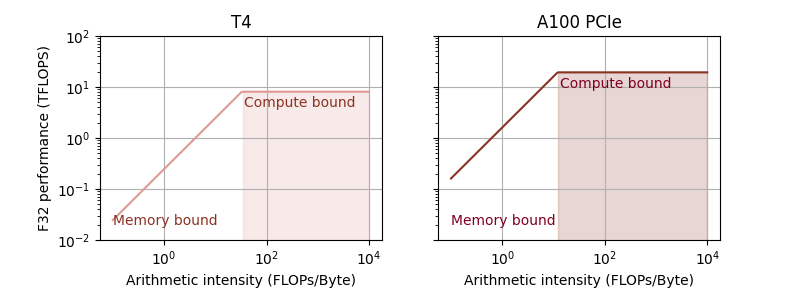
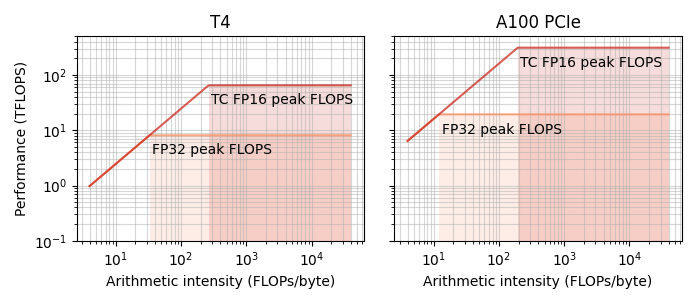
April 24 updates

diff --git a/CHEP_2023/fc/fig1_roofline_demo.py b/CHEP_2023/fc/fig1_roofline_demo.py
@@ -1,62 +1,71 @@
 import math
 import numpy as np
+import matplotlib
 import matplotlib.pyplot as plt
+from matplotlib import cycler
 
-COLOR_1 = "#DE9A95"
-COLOR_2 = "#8A3324"
-COLOR_3 = "#800020"
-COLORS = [COLOR_1, COLOR_2, COLOR_3]
-
-# slope in FLOPs/Byte, peak in TFLOPS
-T4_f32 = {'slope': 245.2, 'peak': 8.1}
-A100_f32 = {'slope': 1607.3, 'peak': 19.37}
+# Data
+# bw in FLOPs/byte, peak in TFLOPS
+T4 = {'bw': 245.2, 'fp32': 8.1, 'tc': 65}
+A100 = {'bw': 1607.3, 'fp32': 19.37, 'tc': 312}
 
 NX = 200  # number of data points
-X_MIN = -1.0
-X_MAX = 4
-Y_MIN = 0.01
-Y_MAX = 100
+X_MIN = 0.6
+X_MAX = 4.6
+Y_MIN = 0.1
+Y_MAX = 500
 
 
-def get_y_data(data_dict, x):
+def get_y_data(data_dict, x, dict_key):
     processed_y = []
     for i in range(NX):
-        tflops = x[i] * data_dict['slope'] / 1000
-        processed_y.append(data_dict['peak'] if tflops > data_dict['peak'] else tflops)
+        tflops = x[i] * data_dict['bw'] / 1000
+        processed_y.append(data_dict[dict_key] if tflops > data_dict[dict_key] else tflops)
     return processed_y
 
 
+def get_ridge_point(dict, dict_key):
+    return dict[dict_key] * 1000 / dict['bw']
+
+
+def add_one_roof_line(x, ax, x_th, y, y_peak, entry):
+    """Plot a single roofline"""
+    ax.plot(x, y, alpha=0.7)
+    ax.fill_between(x, y, where=(x >= x_th), step='mid', alpha=0.15)
+    # Add text
+    flag_text = ("FP32" if entry == "fp32" else "TC FP16") + ' peak FLOPS'
+    ax.text(x_th * 1.1, 0.45 * y_peak, flag_text)
+
+
+def add_one_subplot(data_dict, ax, x, title_str):
+    """Plot the rooflines of a single device"""
+    dict_keys = ["fp32", "tc"]
+    for dict_key in dict_keys:
+        add_one_roof_line(x, ax, get_ridge_point(data_dict, dict_key),
+                          get_y_data(data_dict, x, dict_key), data_dict[dict_key], dict_key)
+
+    ax.set_xscale('log')
+    ax.set_yscale('log')
+    ax.set_ylim((Y_MIN, Y_MAX))
+    ax.set_title(title_str)
+    # ax[i].text(0.1, Y_MIN + 0.01, 'Memory-bound')
+    ax.set_xlabel('Arithmetic intensity (FLOPs/byte)')
+    ax.grid(True, which='both', alpha=0.5)
+
+
+# cmap reference: https://matplotlib.org/stable/gallery/color/colormap_reference.html
+cmap = matplotlib.colormaps['OrRd']
+matplotlib.rcParams['axes.prop_cycle'] = cycler(color=cmap(np.linspace(0.5, 0.8, 2)))
+
+fig, axes = plt.subplots(1, 2, sharey='row', sharex='row', figsize=(7, 3))
+
 x = np.logspace(X_MIN, X_MAX, NX)  # log base is 10
 # print(x[:10])
-y_T4 = get_y_data(T4_f32, x)
-y_A100 = get_y_data(A100_f32, x)
 
-T4_x_th = T4_f32['peak'] * 1000 / T4_f32['slope']
-A100_x_th = A100_f32['peak'] * 1000 / A100_f32['slope']
+add_one_subplot(T4, axes[0], x, "T4")
+add_one_subplot(A100, axes[1], x, "A100 PCIe")
+axes[0].set_ylabel('Performance (TFLOPS)')
 
-
-def add_sub_plot(x, ax, x_th, y, y_peak, i, title_str, ):
-    ax[i].plot(x, y, c=COLORS[i])
-    ax[i].set_xscale('log')
-    ax[i].set_yscale('log')
-    ax[i].set_ylim((Y_MIN, Y_MAX))
-    ax[i].fill_between(x, y, where=(x >= x_th), color=COLORS[i], step='mid', alpha=0.2)
-    ax[i].set_xlabel('Arithmetic intensity (FLOPs/Byte)')
-    if i == 0:
-        ax[i].set_ylabel('F32 performance (TFLOPS)')
-    ax[i].grid(True, which='major')
-    ax[i].text(x_th * 1.1, 0.5 * y_peak, 'Compute bound', color=COLORS[i + 1])
-    ax[i].text(0.1, Y_MIN + 0.01, 'Memory bound', color=COLORS[i + 1])
-    ax[i].set_title(title_str)
-
-
-fig, ax = plt.subplots(1, 2, sharey=True, sharex=True, figsize=(8, 3))
-add_sub_plot(x, ax, T4_x_th, y_T4, T4_f32['peak'], 0, "T4")
-add_sub_plot(x, ax, A100_x_th, y_A100, A100_f32['peak'], 1, "A100 PCIe")
-
-#######################
-
-plt.subplots_adjust(bottom=0.2)
-
+plt.tight_layout()
 # plt.show()
 plt.savefig('fig1_roofline-demo.png')

diff --git a/CHEP_2023/fc/fig2_max_tflops_dual_y.py b/CHEP_2023/fc/fig2_max_tflops_dual_y.py
@@ -9,10 +9,10 @@ COLOR_LIMIT = "#EEDBDA"
 COLOR_ACHIEVED = "#DE9A95"
 COLOR_LINE = "#6E7F80"
 
-x_entries = ['T4 f32', 'T4 f16', 'A100 f32', 'A100 f16']
+x_entries = ['T4 FP32', 'T4 FP16', 'A100 FP32', 'A100 FP16']
 max_flops = {
     'Limit': [8.1, 65.0, 19.4, 312.0],
-    'Achieved': [5.75, 34.64, 20.30, 214.41],
+    'Achieved': [5.75, 34.64, 20.30, 214.80],
 }
 
 len_x = len(x_entries)
@@ -44,19 +44,19 @@ ax1.legend(loc='upper left')
 
 #############################################################
 # Ax2: line
-utilizations = [max_flops['Achieved'][i] / max_flops['Limit'][i] * 100 for i in range(len_x)]
-print("Utilization rate (%)")
-print(utilizations)
+utilization = [max_flops['Achieved'][i] / max_flops['Limit'][i] * 100 for i in range(len_x)]
+print("Utilization(%)")
+print(utilization)
 ax2 = ax1.twinx()
-ax2.plot(x_center, utilizations, 'o-.', color=COLOR_LINE)
-ax2.set_ylabel('Utilization rate (%)')
+ax2.plot(x_center, utilization, 'o-.', color=COLOR_LINE)
+ax2.set_ylabel('Utilization (%)')
 
 ax2.set_ylim(0, 125)
 
 ############################################################
 # table
 # two blank rows to increase vspace
-cell_text = [['' for i in range(len_x)], ['' for i in range(len_x)], ['%4.2f %%' %u for u in utilizations]]
+cell_text = [['' for i in range(len_x)], ['' for i in range(len_x)], ['%4.2f %%' %u for u in utilization]]
 
 plt.table(cellText=cell_text,
           rowLabels=['', '', 'Utilization'], cellLoc='center',
